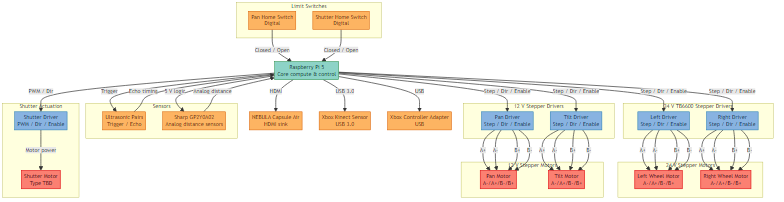
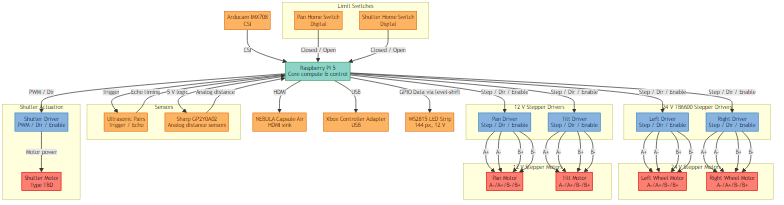
LED

diff --git a/readme.md b/readme.md
@@ -37,8 +37,7 @@ graph TD
     PDAdapter["JacobsParts USB-C PD\n20 V USB-PD output"]
     Projector["NEBULA Capsule Air\nUSB-C PD (~45 W)"]
     Pi["Raspberry Pi 5 + Storage\n5 V, ~5.4 A"]
-    Kinect["Kinect & USB Peripherals\n5 V, ~2 A"]
-    LEDs["Addressable LEDs & Logic\n5 V, ~3 A"]
+    LEDs["WS2815 Addressable LEDs\n12 V, ~2.6 A"]
 
     Battery --> Breaker --> Switch --> Meter --> FuseBlock
     FuseBlock --> FuseStepper24 --> Stepper24Left
@@ -48,8 +47,8 @@ graph TD
     Buck12 --> Stepper12Tilt
     FuseBlock --> FusePD --> PDAdapter --> Projector
     FuseBlock --> FuseBuck5 --> Buck5 --> Pi
-    Pi --> Kinect
-    Pi --> LEDs
+    Buck12 --> LEDs
+    Pi -.->|Data signal| LEDs
     Pi --> Lasers
     Stepper24Left --> LeftWheel["Left Wheel KH56"]
     Stepper24Right --> RightWheel["Right Wheel KH56"]
@@ -62,7 +61,7 @@ graph TD
     class Stepper24Left,Stepper24Right,Stepper12Pan,Stepper12Tilt driver
     class Buck12,Buck5,PDAdapter converter
     class Pi compute
-    class Projector,Audio,Kinect,LEDs,Lasers peripheral
+    class Projector,Audio,LEDs,Lasers peripheral
     class LeftWheel,RightWheel,HeadPan,HeadTilt motor
 
     classDef battery fill:#69c06f,stroke:#2e8540,color:#0b3d17,stroke-width:2px
@@ -93,7 +92,7 @@ graph TD
 graph TB
     Pi["Raspberry Pi 5\nCore compute & control"]
     Projector["NEBULA Capsule Air\nHDMI sink"]
-    Kinect["Xbox Kinect Sensor\nUSB 3.0"]
+    Camera["Arducam IMX708\nCSI"]
     Controller["Xbox Controller Adapter\nUSB"]
 
     subgraph StepperDrivers24["24 V TB6600 Stepper Drivers"]
@@ -132,13 +131,14 @@ graph TB
     end
 
     Pi -->|HDMI| Projector
-    Pi -->|USB 3.0| Kinect
+    Camera -->|CSI| Pi
     Pi -->|USB| Controller
     Pi -->|Step / Dir / Enable| StepperL
     Pi -->|Step / Dir / Enable| StepperR
     Pi -->|Step / Dir / Enable| StepperPan
     Pi -->|Step / Dir / Enable| StepperTilt
     Pi -->|PWM / Dir| ShutterDriver
+    Pi -->|GPIO Data via level-shift| LEDs["WS2815 LED Strip\n144 px, 12 V"]
     Pi -->|Trigger| UltrasonicArray
     UltrasonicArray -->|Echo timing| Pi
     IRArray -->|Analog distance| Pi
@@ -165,7 +165,7 @@ graph TB
     ShutterDriver -->|Motor power| ShutterMotor
 
     class Pi compute
-    class Projector,Kinect,Controller,UltrasonicArray,IRArray,PanLimit,ShutterLimit peripheral
+    class Projector,Camera,Controller,UltrasonicArray,IRArray,PanLimit,ShutterLimit,LEDs peripheral
     class StepperL,StepperR,StepperPan,StepperTilt,ShutterDriver driver
     class MotorLeft,MotorRight,MotorPan,MotorTilt,ShutterMotor motor
 
@@ -204,7 +204,7 @@ graph TB
     subgraph Perception["Perception Inputs"]
         Ultrasonic["Ultrasonic Pair\nObstacle distance"]
         Lidar["2D LiDAR\nScan-based clearance"]
-        Kinect["Xbox Kinect + IMU\nPose / RGB / Depth"]
+        Arducam["Arducam IMX708\nRGB / autofocus"]
     end
 
     subgraph Expression["Expressive Outputs"]
@@ -212,7 +212,7 @@ graph TB
         Head["Head Presence\nPan / tilt gestures"]
         Projection["Projected Media\nWWT astronomical scenes"]
         Audio["Audio Atmosphere\nTTS / SFX / music"]
-        LEDs["Facial LEDs\nAddressable strip"]
+        LEDs["Facial LEDs\nWS2815 strip (144 px)"]
     end
 
     User -->|2D analog| XLeft
@@ -227,12 +227,11 @@ graph TB
 
     Ultrasonic -->|Stop zone alerts| Mobility
     Lidar -->|Clearance map| Mobility
-    Kinect -->|Gesture & presence cues| LEDs
-    Kinect -->|Audience detection| Audio
+    Arducam -->|Vision cues| LEDs
 
     class User actor
     class XLeft,XRight,XTrig,XFace,DLeft,DRight,DTrig,DMacro input
-    class Ultrasonic,Lidar,Kinect sensor
+    class Ultrasonic,Lidar,Arducam sensor
     class Mobility,Head,Projection,Audio,LEDs output
 
     classDef actor fill:#ffe29c,stroke:#d49f00,color:#7a5d00,stroke-width:1.5px
@@ -373,7 +372,6 @@ graph TD
 ### Vision & Interaction
 | Component | Function | Coverage / Resolution | Voltage (V) | Amperage (A) | Wattage (W) | Physical Dimensions (") | Link | Notes |
 | --- | --- | --- | --- | --- | --- | --- | --- | --- |
-| Xbox Kinect | Depth + RGB sensing, Pose detection | Wide FoV; structured light | 5 | ≤2 | ≤10 | 11" × 2.6" × 1.5" | [OpenKinect](https://github.com/OpenKinect/libfreenect) | Confirm Raspberry Pi compatibility or plan for companion compute. |
 | Mini Projector | Visual output | 720p (150 ANSI) | 5–20 (USB-C PD) | ≤2.25 | ≤45 | Ø2.7" × 5.5" | [NEBULA Capsule Air](https://www.amazon.com/dp/B0CWV1S7B4?ref=ppx_yo2ov_dt_b_fed_asin_title&th=1) | Built-in 34 Wh battery; integrate 45 W USB-C PD or leverage internal pack. |
 | Camera | Vision input | 12 MP, 75° FoV; autofocus | 5 | ≤0.5 | ≤2.5 | 1.50" × 1.50" × 0.71" (w/ adapter) | [Arducam](https://www.amazon.com/dp/B0C9PYCV9S?ref=ppx_yo2ov_dt_b_fed_asin_title) | IMX708 |
-| Addressable LED strip | Face ring | Pixel count TBD | 5 | ≤0.06 (per LED) | ≤0.3 (per 5 LEDs) | Flexible strip | — | Level-shift 3.3 V logic up to 5 V. |
+| BTF-LIGHTING WS2815 LED strip | Face ring (eyes, mouth) | 144 LEDs, individually addressable RGB | 12 | ≤2.6 (full white) | ≤31.7 | 3.2 ft × 0.47" (1 m × 12 mm), IP65 | [Amazon](https://www.amazon.com/dp/B07LG5VF73) | Upgraded WS2812B; dual-signal line; 5050 SMD; 12 V from Buck12 rail; data pin needs 3.3→5 V level-shift. |
